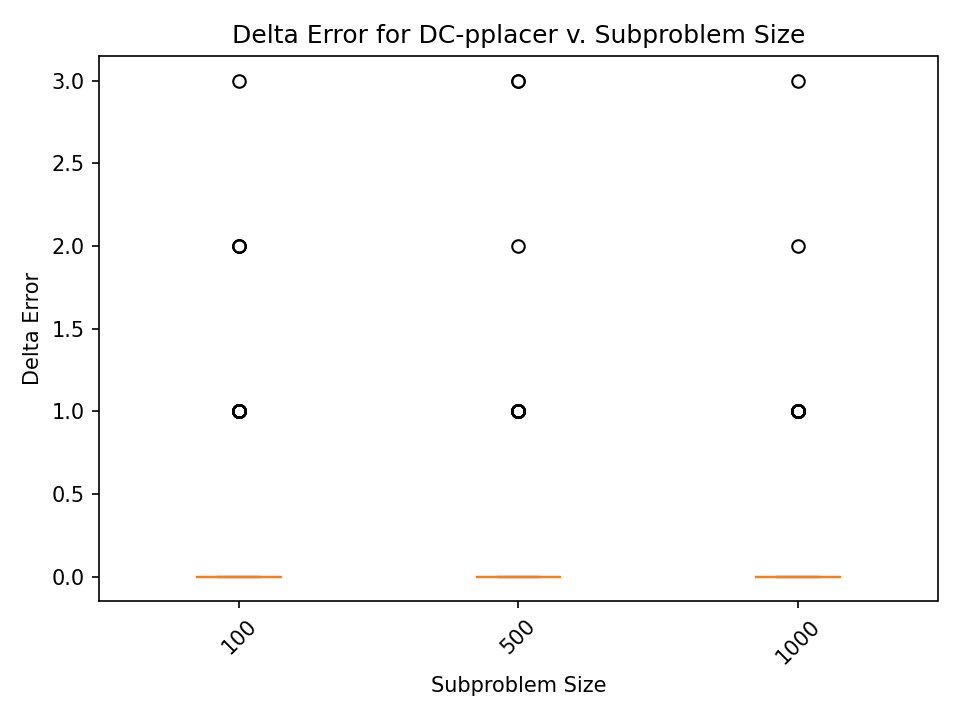
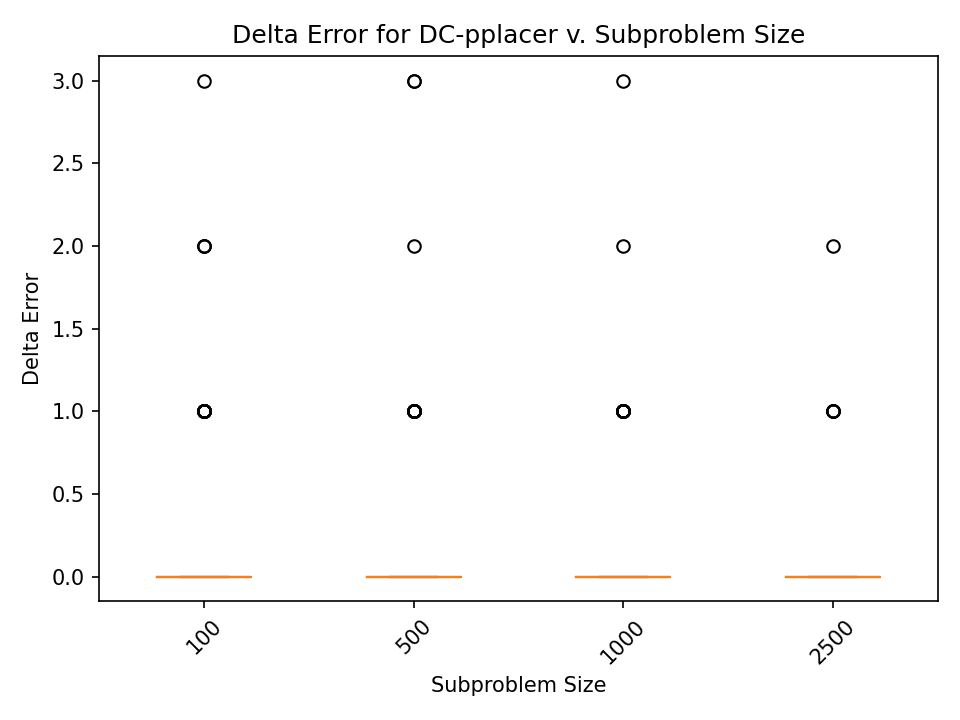
added 2500 problem size to vary-size graph

diff --git a/writeup/project.tex b/writeup/project.tex
@@ -202,7 +202,7 @@ and the number of clades considered, $N_{clades}$.
 In order to observe the effect of subproblem size and accuracy for pplacerDC,
 the maximum subproblem size is varied on the RNASim-VS-5000 leaf data set.
 Three of the 5 replicates with 100 query species per replicate are
-considered for 100, 500, and 1000 leaf subproblems.
+considered for 100, 500, and 1000 leaf subproblems. The 2500 leaf subproblem is the results from 200 queries on the first replicate from the results on Blue Waters.
 The results are shown in fig \ref{fig:varying-size}.
 As shown in the figure, the choice of sub problem size does not
 have a signficant effect on the delta error.

diff --git a/data/varying_size_error_plots.py b/data/varying_size_error_plots.py
@@ -14,9 +14,12 @@ testedSizes = [100, 500, 1000]
 data=[]
 for size in testedSizes:
   data.append(get_errs(f"approach1_size_{size}", problemSize))
+data.append(np.sort(read_list("BW-results/5000/delta_error_approach1.txt")))
+# TODO: append data for 2500
 fig, ax = plt.subplots()
 ax.boxplot(data)
-ax.set_xticklabels(testedSizes)
+labels = [100, 500, 1000, 2500]
+ax.set_xticklabels(labels)
 plt.title(f"Delta Error for DC-pplacer v. Subproblem Size")
 plt.ylabel("Delta Error")
 plt.xlabel("Subproblem Size")
